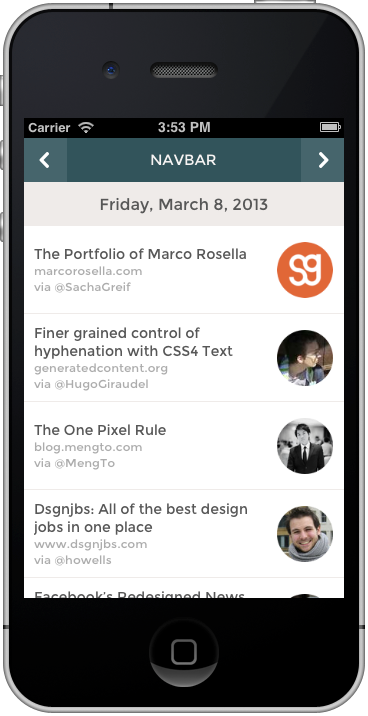
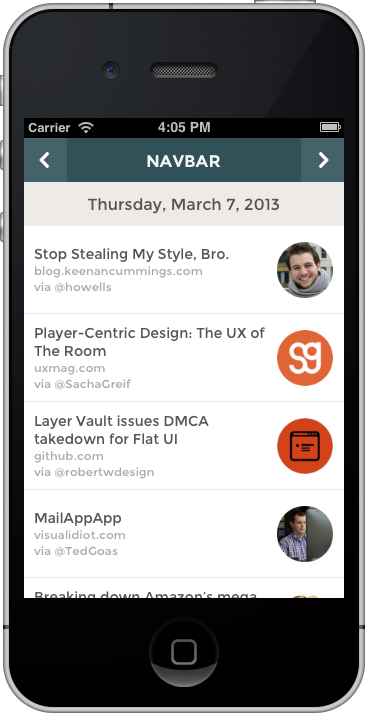
Tweaks

diff --git a/Navbar/AppDelegate.m b/Navbar/AppDelegate.m
@@ -61,7 +61,7 @@
     [[UINavigationBar appearance] setTitleTextAttributes: @{
                                 UITextAttributeTextColor: [UIColor colorWithRed:244/255.0 green:244/255.0 blue:244/255.0 alpha:1.0],
                         UITextAttributeTextShadowOffset : [NSValue valueWithUIOffset:UIOffsetMake(0, 0)],
-                                    UITextAttributeFont : [UIFont fontWithName:@"Montserrat-Regular" size:15.0]
+                                    UITextAttributeFont : [UIFont fontWithName:@"Montserrat-Bold" size:17.0]
      }];
     
     [self.navController.navigationBar setTitleVerticalPositionAdjustment:3.0f forBarMetrics:UIBarMetricsDefault];
